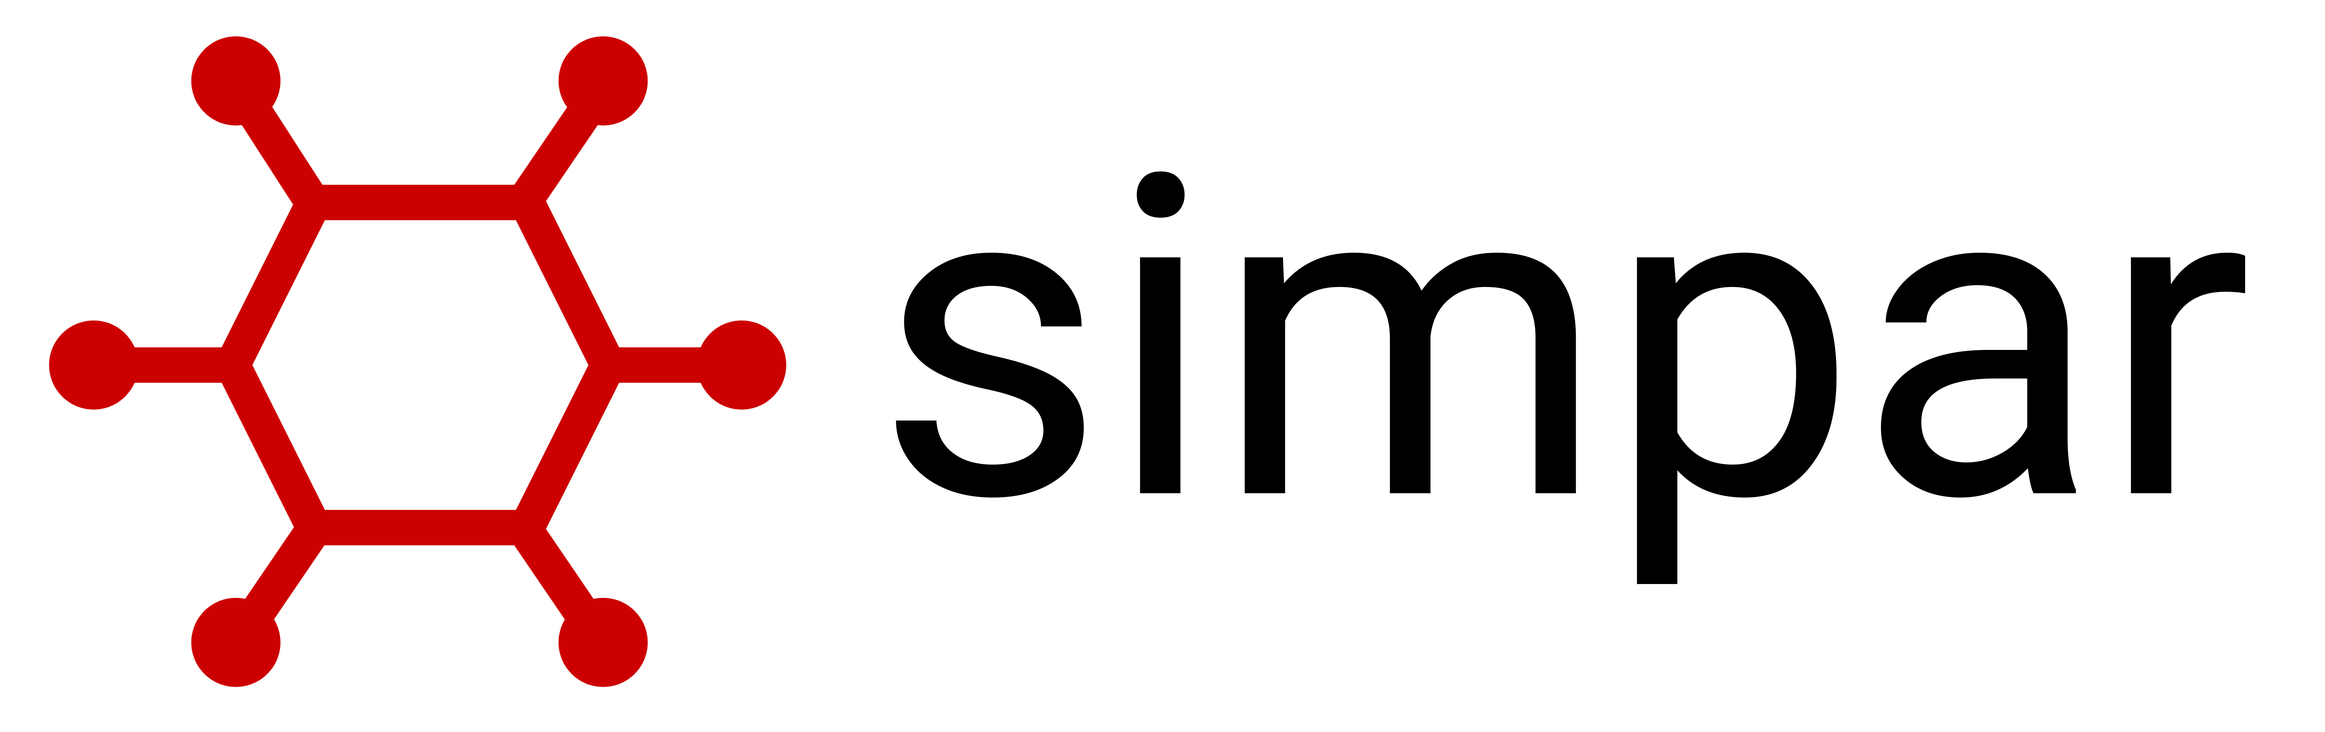
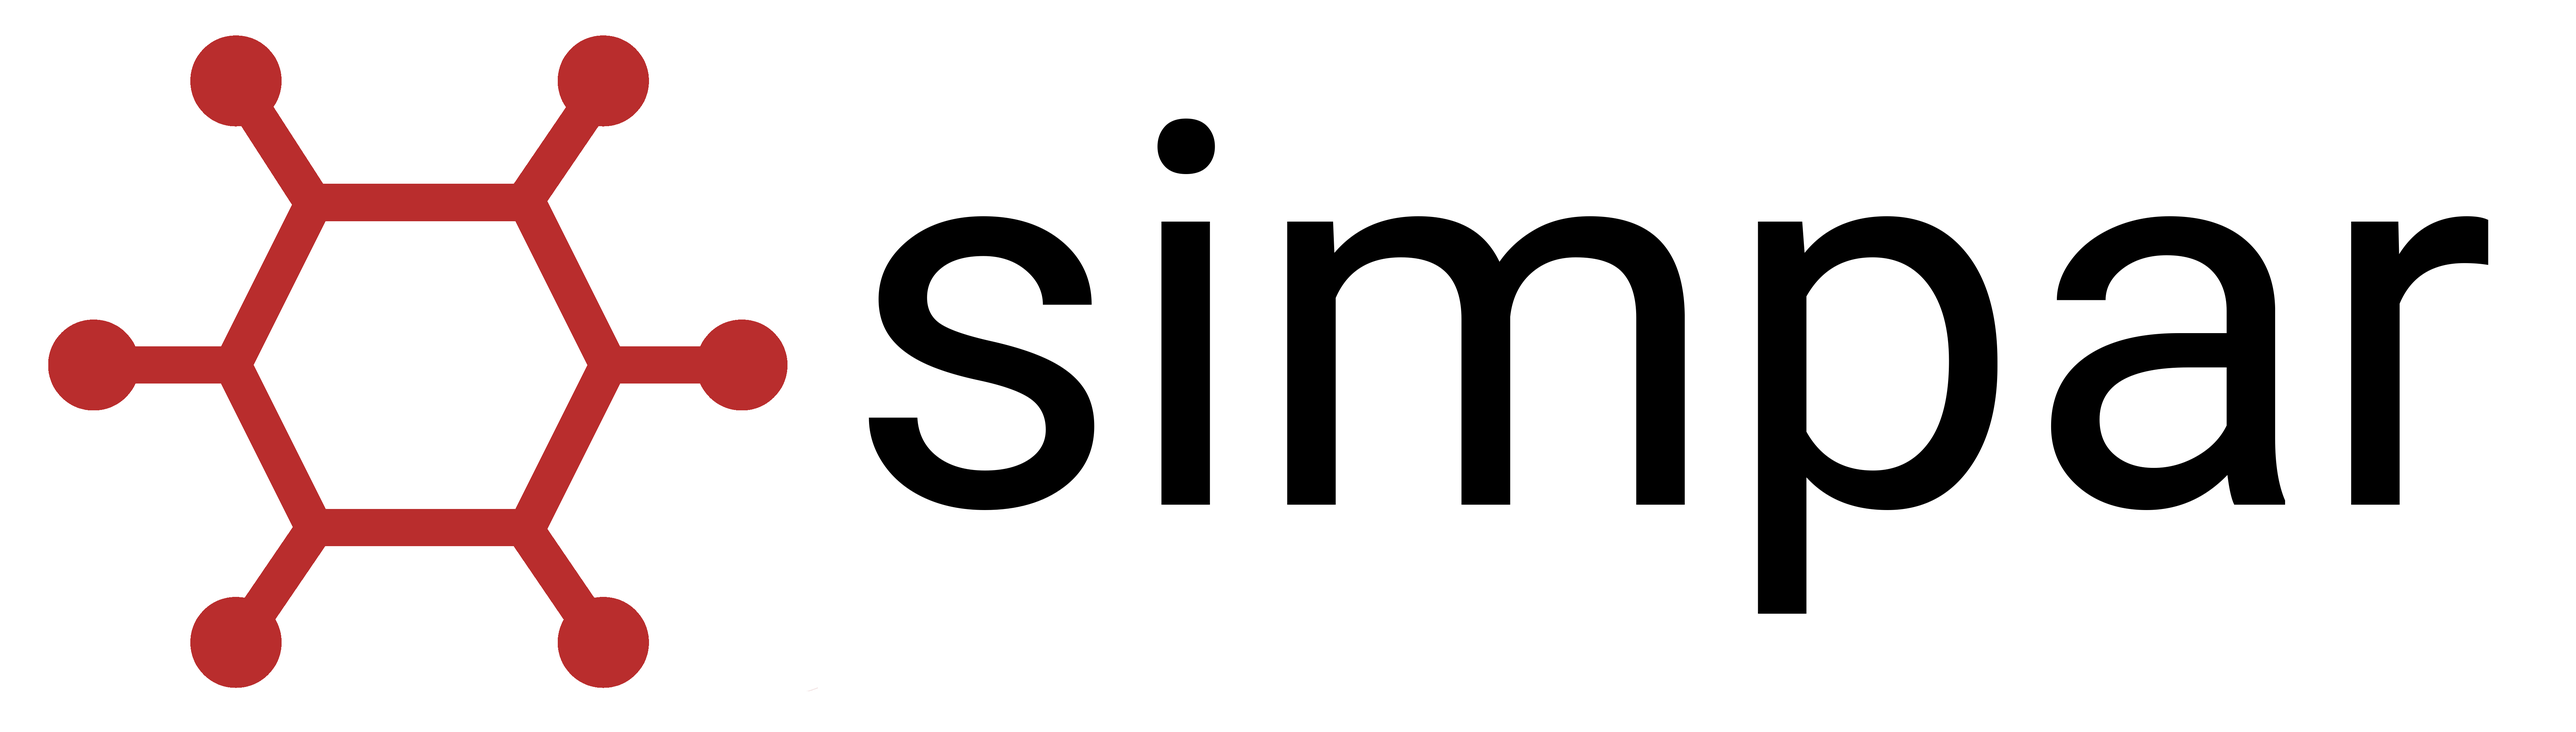
Updated the simpar branding.

Changed region(s): [[0.0, 0.0312, 0.9682, 0.9375]]

diff --git a/docs/index.rst b/docs/index.rst
@@ -1,6 +1,5 @@
-.. image:: branding/simpar_color.png
-  :height: 125
-  :alt: simpar
+|brand_image|
+=============
 
 |
 
@@ -26,7 +25,9 @@ overview of the package structure and the complete documentation, see
 
 
 .. _SIR model: https://en.wikipedia.org/wiki/Compartmental_models_in_epidemiology
-
+.. |brand_image| image:: branding/simpar_color.png
+  :height: 100
+  :alt: simpar
 
 .. toctree::
    :maxdepth: 2
